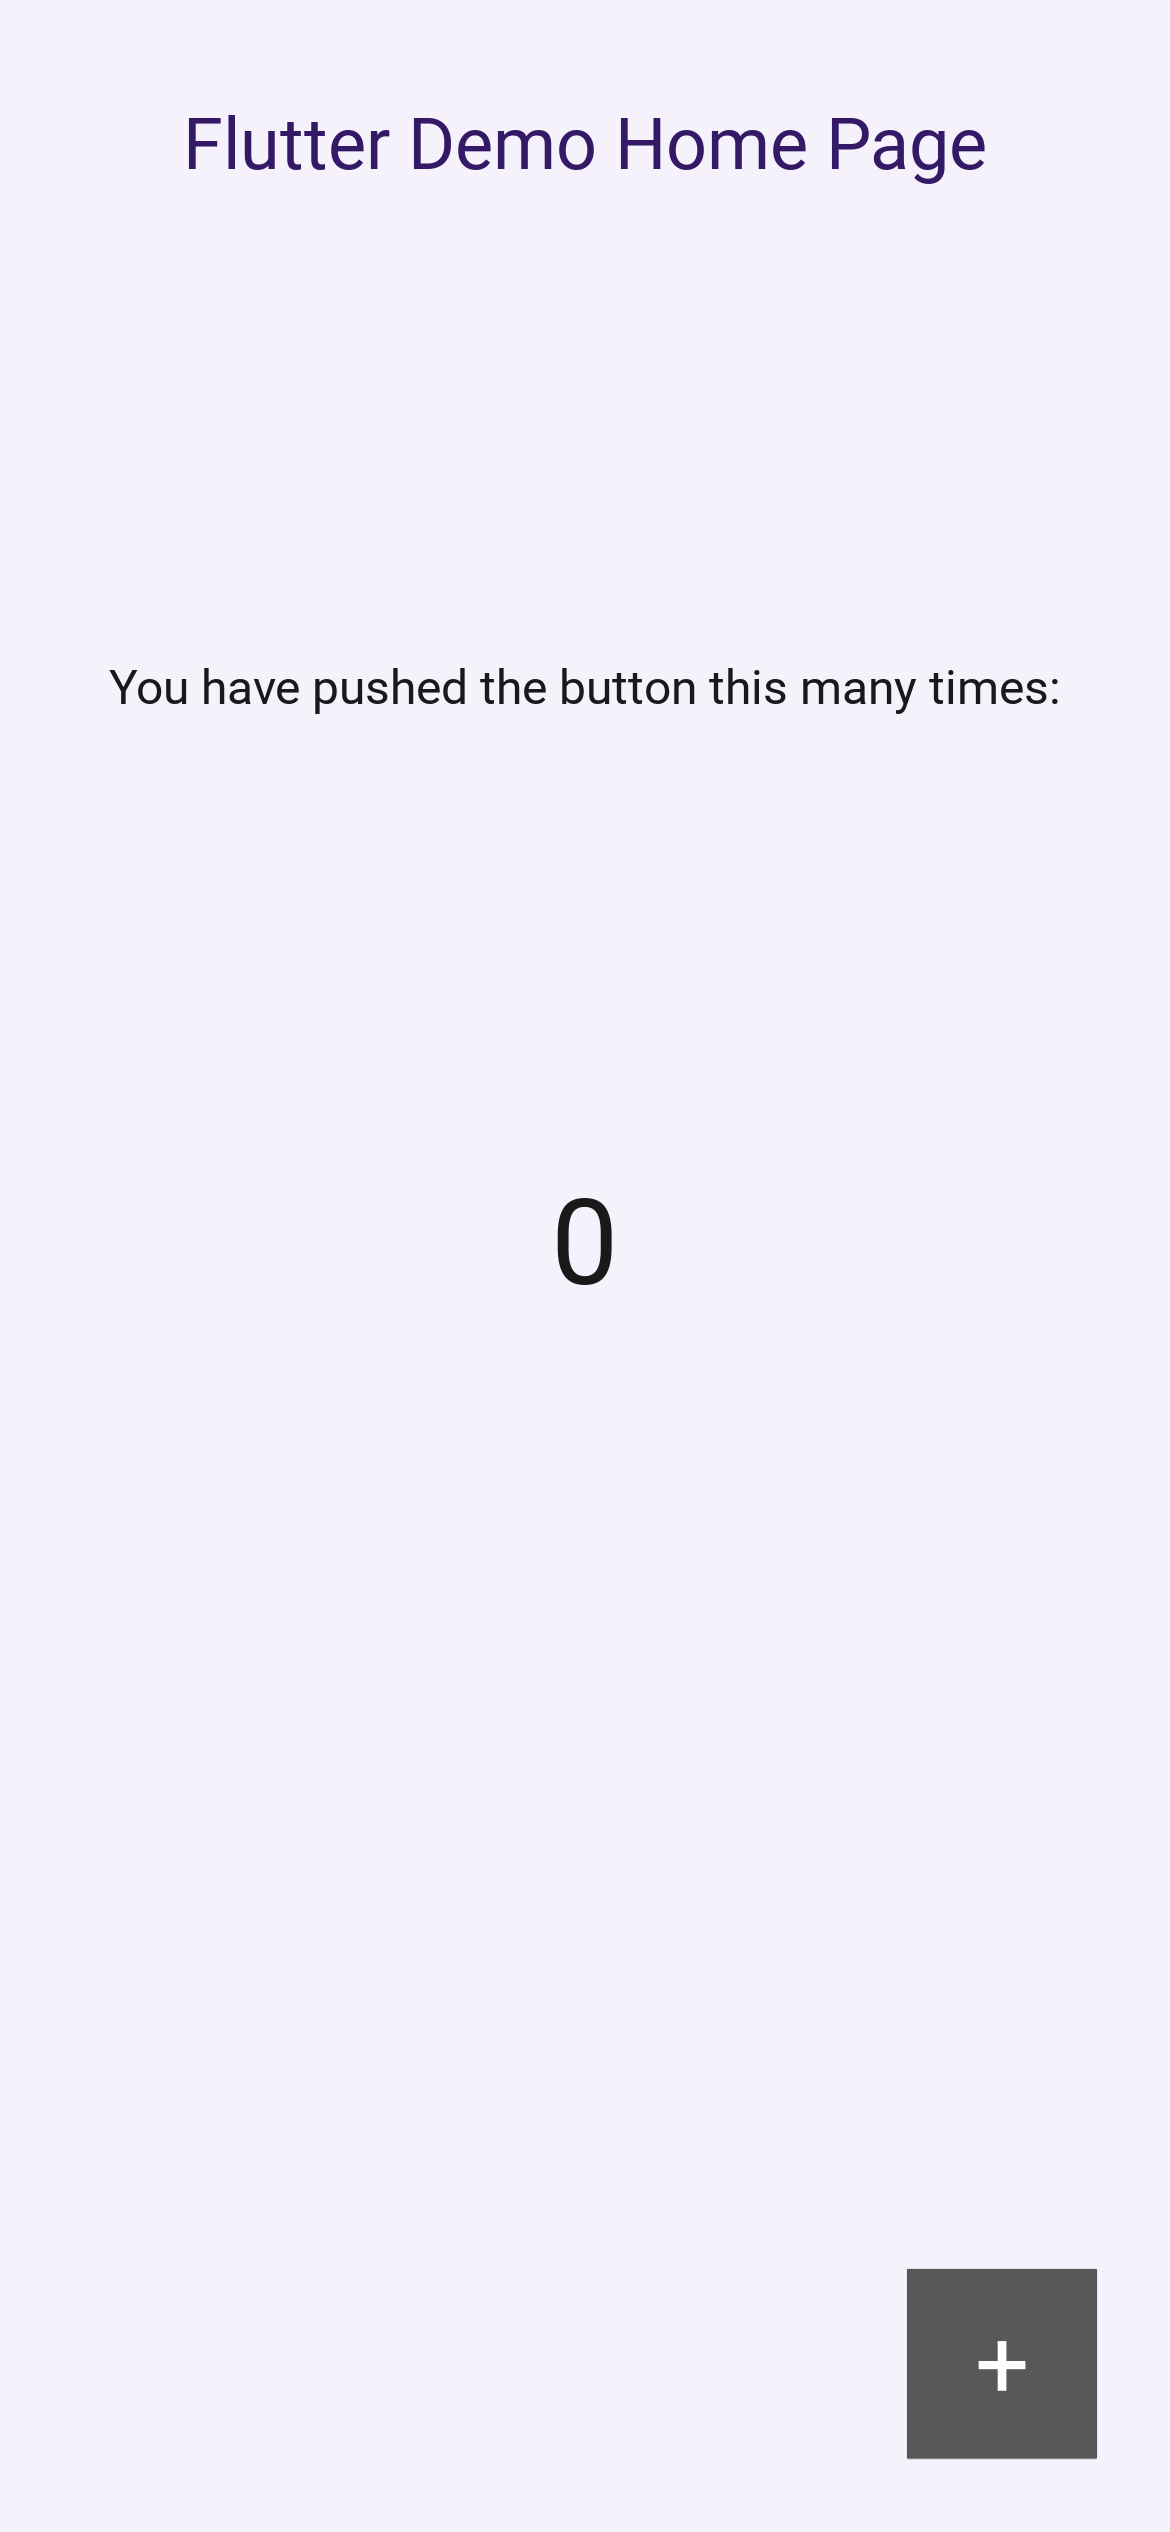
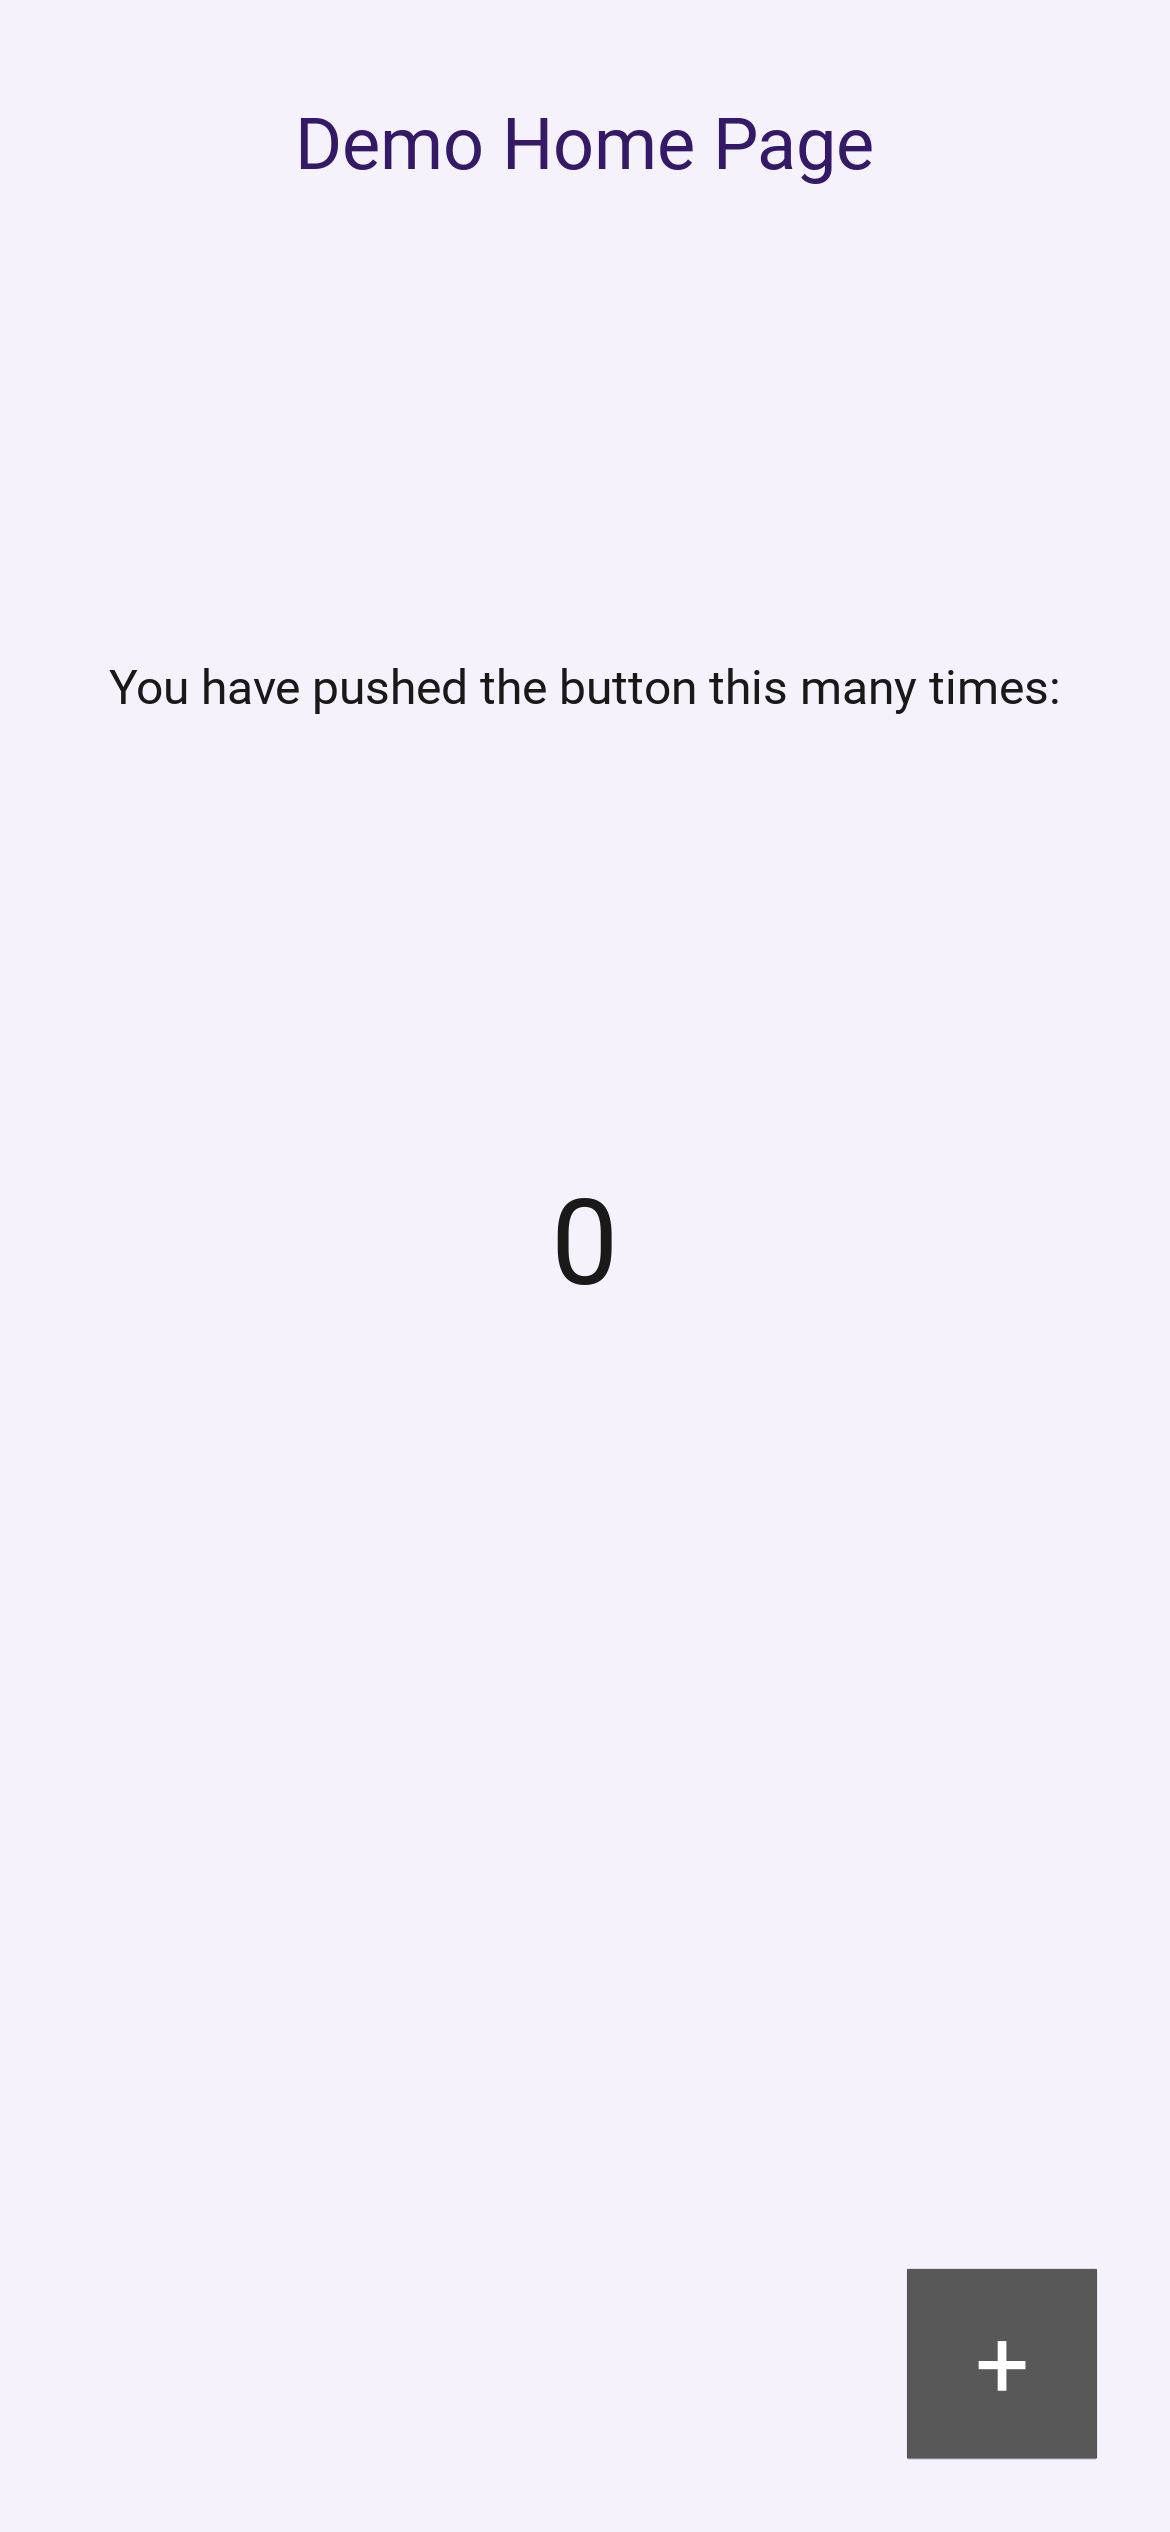
[#107] [NF] Screenshot Generator. Switch to MIT license

Changed region(s): [[0.2462, 0.0312, 0.8308, 0.0936], [0.1538, 0.0312, 0.2154, 0.0624]]

diff --git a/example/main.py b/example/main.py
@@ -1,6 +1,3 @@
-# Copyright 2026 The terCAD team. All rights reserved.
-# Use of this source code is governed by a MIT license that can be found in the LICENSE file.
-
 import os
 
 from kivy.app import App
@@ -49,8 +46,8 @@ BoxLayout:
 '''
 
 TEXTS = {
-    'en_US': ('Flutter Demo Home Page', 'You have pushed the button this many times:'),
-    'de_DE': ('Flutter-Demo-Startseite', 'So oft wurde der Knopf gedrückt:'),
+    'en_US': ('Demo Home Page', 'You have pushed the button this many times:'),
+    'de_DE': ('Demo-Startseite', 'So oft wurde der Knopf gedrückt:'),
 }
 
 

diff --git a/src/kivy_screenshot_generator/__init__.py b/src/kivy_screenshot_generator/__init__.py
@@ -1,6 +1,3 @@
-# Copyright 2026 The terCAD team. All rights reserved.
-# Use of this source code is governed by a MIT license that can be found in the LICENSE file.
-
 """Generate screenshots for a Kivy application across different screens and languages."""
 
 from .device_config import DeviceConfig, EdgeInsets, PlatformDevices, TargetPlatform

diff --git a/src/kivy_screenshot_generator/screenshot_tester.py b/src/kivy_screenshot_generator/screenshot_tester.py
@@ -1,6 +1,3 @@
-# Copyright 2026 The terCAD team. All rights reserved.
-# Use of this source code is governed by a MIT license that can be found in the LICENSE file.
-
 """Interaction helpers for screenshot steps (Kivy counterpart of Flutter's `WidgetTester`).
 
 Imported only inside the screenshot process: it pulls in the Kivy window.

diff --git a/src/kivy_screenshot_generator/screenshot_config.py b/src/kivy_screenshot_generator/screenshot_config.py
@@ -1,6 +1,3 @@
-# Copyright 2026 The terCAD team. All rights reserved.
-# Use of this source code is governed by a MIT license that can be found in the LICENSE file.
-
 from dataclasses import dataclass, field
 
 from .device_config import PlatformDevices, TargetPlatform

diff --git a/src/kivy_screenshot_generator/device_config.py b/src/kivy_screenshot_generator/device_config.py
@@ -1,6 +1,3 @@
-# Copyright 2026 The terCAD team. All rights reserved.
-# Use of this source code is governed by a MIT license that can be found in the LICENSE file.
-
 import re
 from dataclasses import dataclass, field
 from enum import Enum

diff --git a/example/capture.py b/example/capture.py
@@ -1,6 +1,3 @@
-# Copyright 2026 The terCAD team. All rights reserved.
-# Use of this source code is governed by a MIT license that can be found in the LICENSE file.
-
 from kivy_screenshot_generator import ScreenshotGenerator
 
 

diff --git a/src/kivy_screenshot_generator/generator.py b/src/kivy_screenshot_generator/generator.py
@@ -1,6 +1,3 @@
-# Copyright 2026 The terCAD team. All rights reserved.
-# Use of this source code is governed by a MIT license that can be found in the LICENSE file.
-
 import asyncio
 import inspect
 import json
